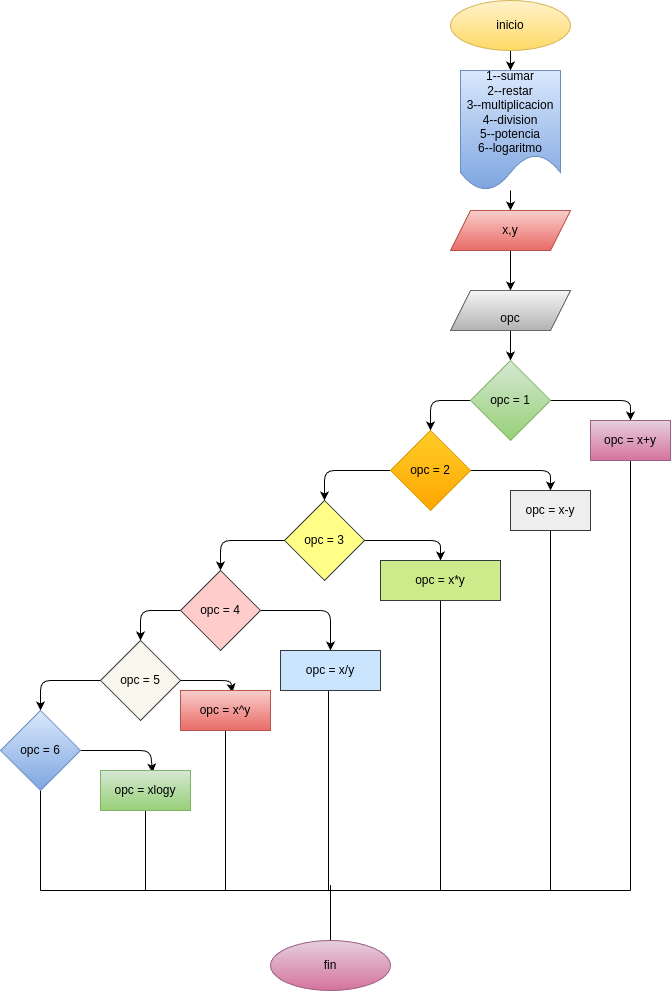
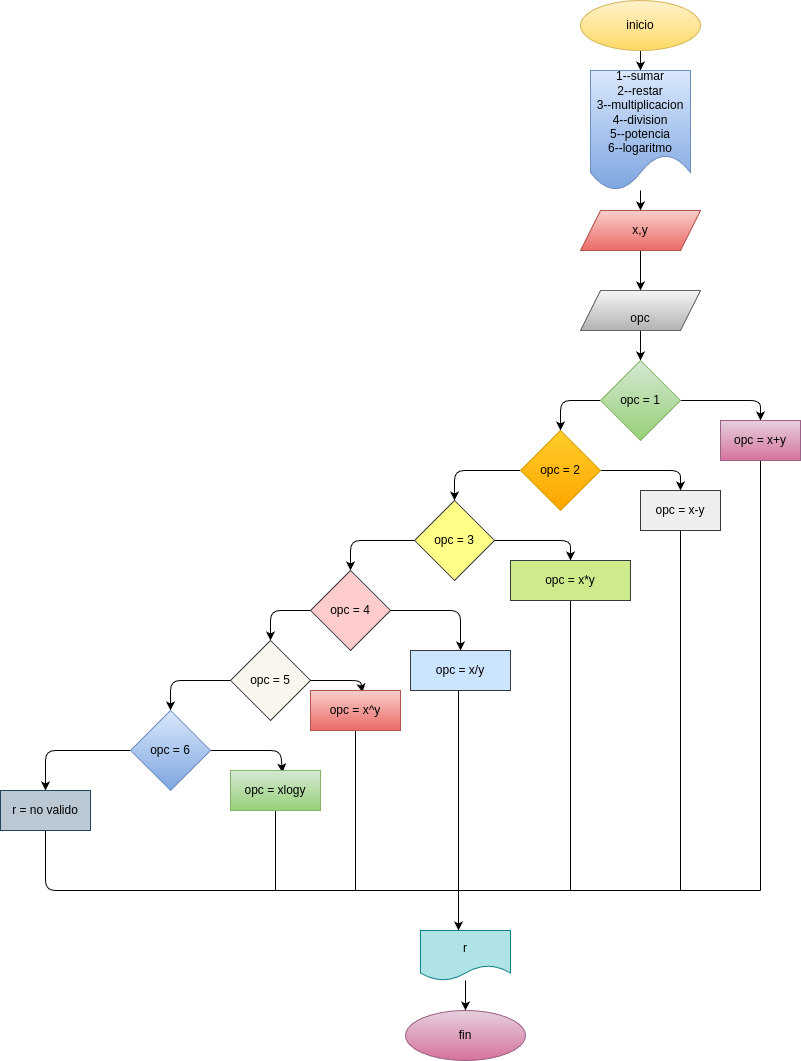
hgj

diff --git a/README.md b/README.md
@@ -1,1 +1,22 @@
 # Mini_Calcudora_Guanentino
+
+# Analisis
+
+## Input
+
+### Variables de entrada
+opc
+ x(digite un numero)
+ y(digite un numero)
+### processing
+opc = 1 x+y
+opc = 2 x-y
+opc = 3 x*y
+opc = 4 x/y
+opc = 5 x^y
+opc = 6 xlogy
+### output
+
+# Diseño
+![Diagrama de flugo](diagrama.png "Diagrama de flujo")
+# Construcion 
